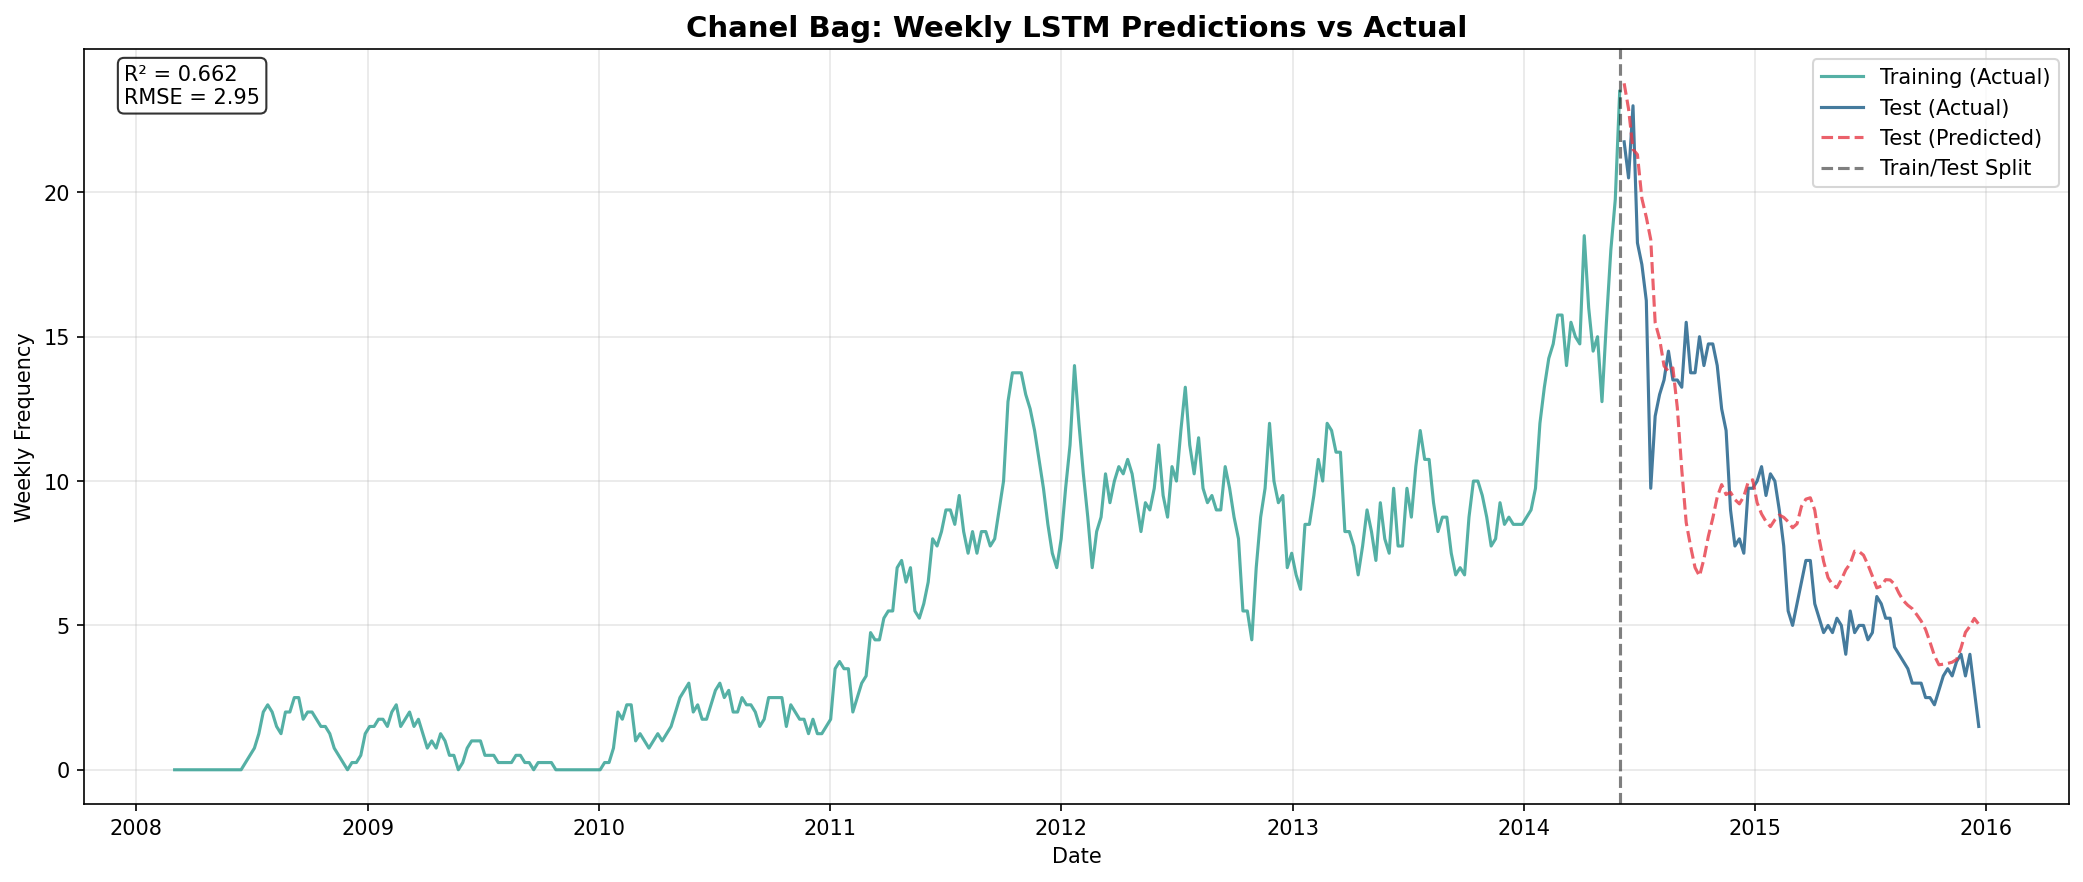
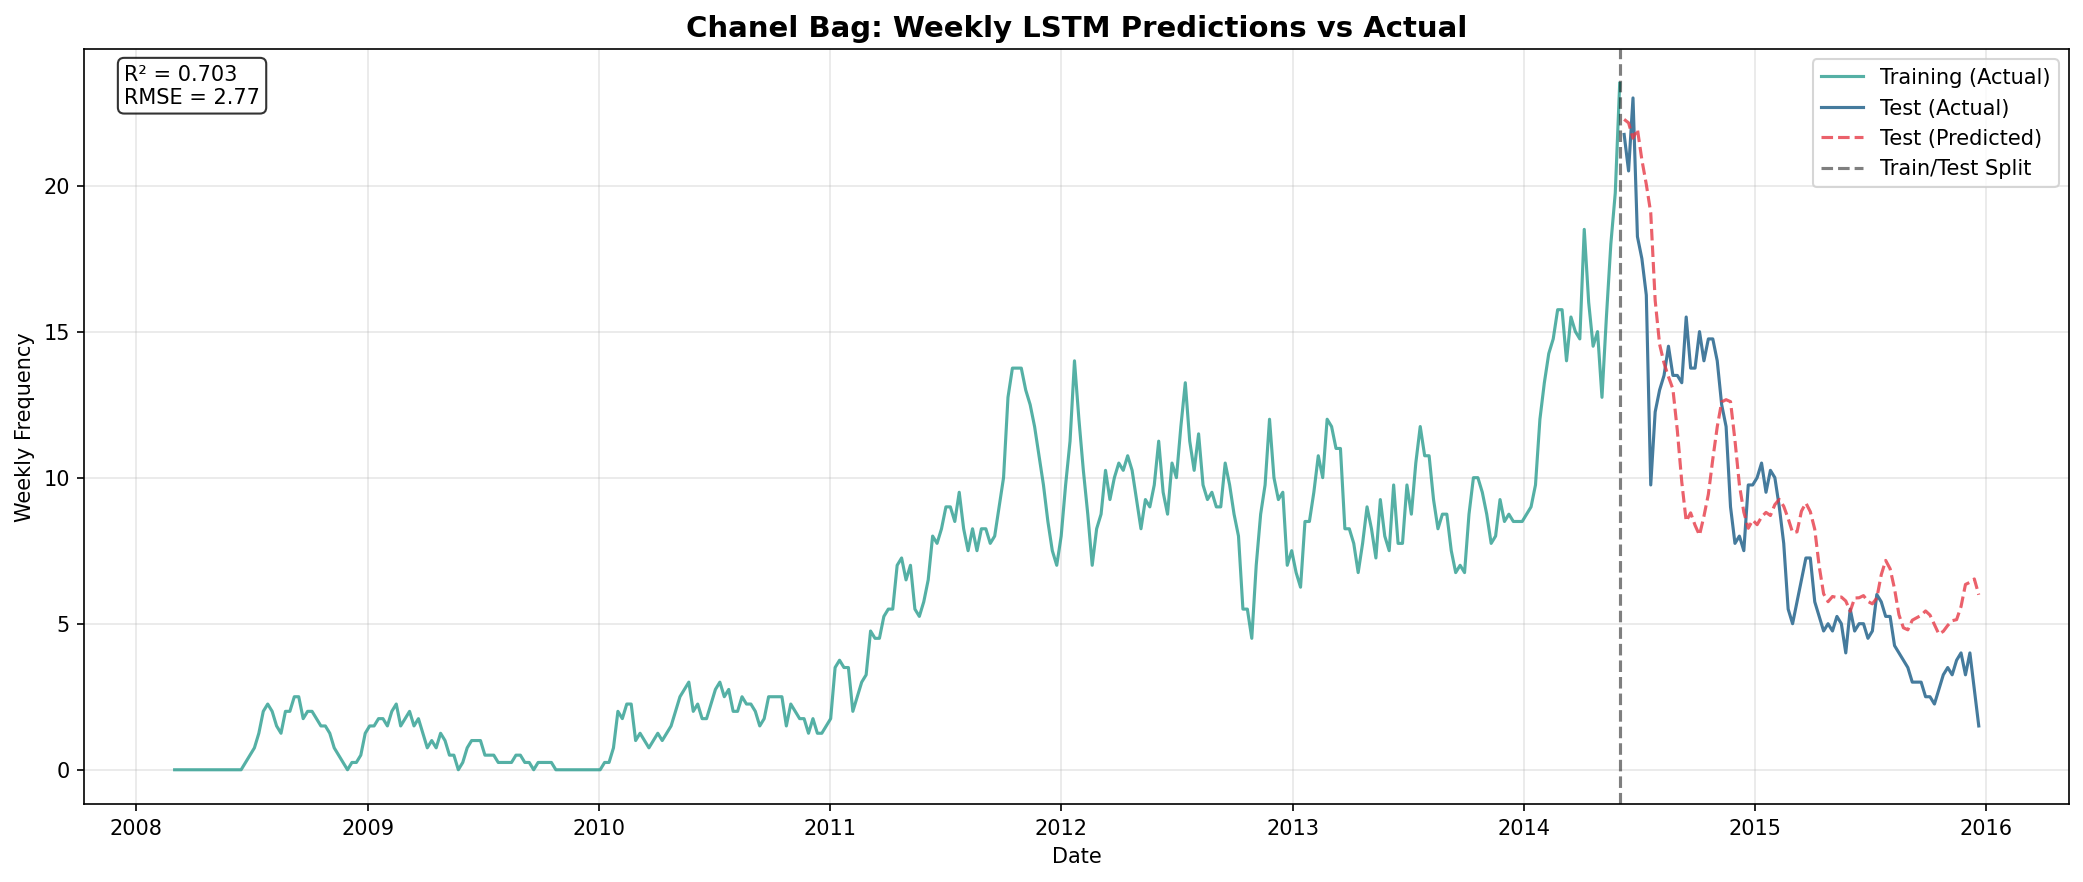
fix: LSTM trained on weekly data (with or without weather)

diff --git a/lstm_weeklyV2.py b/lstm_weeklyV2.py
@@ -221,7 +221,6 @@ class LSTMForecaster:
 
 
 def prepare_weekly_features(sfs_df: pd.DataFrame, 
-                           weather_df: pd.DataFrame,
                            target_col: str) -> pd.DataFrame:
     """
     Prepare features for weekly LSTM/TFT models.
@@ -229,15 +228,12 @@ def prepare_weekly_features(sfs_df: pd.DataFrame,
     Features created:
     - Lag features (1, 2, 4, 8, 12, 26, 52 weeks)
     - Rolling statistics (4, 12, 26 week windows)
-    - Weather features
     - Calendar features
     
     Parameters:
     -----------
     sfs_df : DataFrame
         Weekly SFS data with trend frequencies
-    weather_df : DataFrame
-        Weekly weather data
     target_col : str
         Target column name ('zara_frequency' or 'chanel_frequency')
     
@@ -248,38 +244,27 @@ def prepare_weekly_features(sfs_df: pd.DataFrame,
     df = pd.DataFrame(index=sfs_df.index)
     df[target_col] = sfs_df[target_col]
     
-    # === LAG FEATURES ===
     lag_weeks = [1, 2, 4, 8, 12, 26, 52]
     for lag in lag_weeks:
         df[f'lag_{lag}w'] = df[target_col].shift(lag)
     
-    # === ROLLING STATISTICS ===
+
     windows = [4, 12, 26]
     for window in windows:
         df[f'rolling_mean_{window}w'] = df[target_col].shift(1).rolling(window, min_periods=1).mean()
         df[f'rolling_std_{window}w'] = df[target_col].shift(1).rolling(window, min_periods=1).std()
         df[f'rolling_min_{window}w'] = df[target_col].shift(1).rolling(window, min_periods=1).min()
         df[f'rolling_max_{window}w'] = df[target_col].shift(1).rolling(window, min_periods=1).max()
-    
-    # === MOMENTUM FEATURES ===
+
     df['momentum_1w'] = df[target_col].diff(1)
     df['momentum_4w'] = df[target_col].diff(4)
     df['momentum_12w'] = df[target_col].diff(12)
-    
+ 
     for period in [1, 4, 12]:
         pct_change = df[target_col].pct_change(period)
         pct_change = pct_change.replace([np.inf, -np.inf], np.nan)
         df[f'pct_change_{period}w'] = pct_change
-    
-    # === WEATHER FEATURES ===
-    if weather_df is not None:
-        weather_aligned = weather_df.reindex(df.index)
-        
-        for col in weather_df.columns:
-            df[col] = weather_aligned[col]
-            df[f'{col}_lag_1w'] = weather_aligned[col].shift(1)
-            df[f'{col}_lag_4w'] = weather_aligned[col].shift(4)
-    
+ 
     df['week_of_year'] = df.index.isocalendar().week.astype(int)
     df['month'] = df.index.month
     df['quarter'] = df.index.quarter
@@ -287,7 +272,7 @@ def prepare_weekly_features(sfs_df: pd.DataFrame,
     
     df['week_sin'] = np.sin(2 * np.pi * df['week_of_year'] / 52)
     df['week_cos'] = np.cos(2 * np.pi * df['week_of_year'] / 52)
-    
+
     df = df.ffill().bfill()
     
     df = df.replace([np.inf, -np.inf], np.nan)
@@ -315,15 +300,16 @@ def create_weekly_train_test_split(features_df: pd.DataFrame,
     --------
     Dictionary with train/test data
     """
+
     peak_idx = features_df[target_col].idxmax()
     peak_loc = features_df.index.get_loc(peak_idx)
     
     print(f"Peak found at: {peak_idx.strftime('%Y-%m-%d')}")
     print(f"Peak value: {features_df[target_col].max():.2f}")
-    
+  
     train_df = features_df.iloc[:peak_loc + 1]
     test_df = features_df.iloc[peak_loc + 1:]
-
+   
     feature_cols = [c for c in features_df.columns if c != target_col]
     
     X_train = train_df[feature_cols]
@@ -376,7 +362,7 @@ def train_and_evaluate_lstm_weekly(split_data: Dict,
     print(f"Features: {len(X_train.columns)}")
     print(f"Sequence length: {sequence_length} weeks")
     print(f"Device: {device}")
-    
+ 
     model = LSTMForecaster(
         sequence_length=sequence_length,
         hidden_size=hidden_size,
@@ -384,12 +370,12 @@ def train_and_evaluate_lstm_weekly(split_data: Dict,
         dropout=dropout,
         learning_rate=0.001,
         epochs=epochs,
-        batch_size=32  
+        batch_size=32  # Larger batch size since we have more data
     )
     
     print("\nTraining LSTM...")
     model.train(X_train, y_train, X_test, y_test, verbose=True)
-
+    
     bridge_length = sequence_length
     X_bridge = pd.concat([X_train.iloc[-bridge_length:], X_test])
     y_bridge = pd.concat([y_train.iloc[-bridge_length:], y_test])
@@ -399,7 +385,7 @@ def train_and_evaluate_lstm_weekly(split_data: Dict,
     
     if len(predictions) > len(y_actual):
         predictions = predictions[-len(y_actual):]
-  
+    
     rmse = np.sqrt(mean_squared_error(y_actual, predictions))
     mae = mean_absolute_error(y_actual, predictions)
     r2 = r2_score(y_actual, predictions)
@@ -454,6 +440,7 @@ def plot_lstm_predictions_weekly(results: Dict,
     ax.legend(loc='best')
     ax.grid(True, alpha=0.3)
     
+    # Add metrics annotation
     metrics = results['test_metrics']
     metrics_text = f"R² = {metrics['r2']:.3f}\nRMSE = {metrics['rmse']:.2f}"
     ax.annotate(metrics_text, xy=(0.02, 0.98), xycoords='axes fraction',
@@ -479,23 +466,23 @@ if __name__ == "__main__":
     os.makedirs('plots', exist_ok=True)
     
     print(f"Using device: {device}")
-    
+
     print("\n" + "="*60)
     print("LOADING WEEKLY DATA")
     print("="*60)
     
     data = load_all_weekly_data(
         sfs_metadata_path='data/SFS_metadata.csv',
-        #weather_path='data/California_weather.csv'
+        weather_path='data/California_weather.csv'
     )
     
     # === ZARA DRESS ===
     print("\n" + "="*60)
     print("ZARA DRESS - WEEKLY LSTM")
     print("="*60)
-    
+   
     zara_features = prepare_weekly_features(
-        data['sfs'], data['weather'], 'zara_frequency'
+        data['sfs'], 'zara_frequency'
     )
     print(f"\nZara features shape: {zara_features.shape}")
     print(f"Feature columns: {len(zara_features.columns) - 1}")  # -1 for target
@@ -506,39 +493,39 @@ if __name__ == "__main__":
     
     zara_results = train_and_evaluate_lstm_weekly(
         zara_split,
-        model_name="Zara LSTM (Weekly SFS + Weather)",
+        model_name="Zara LSTM (Weekly SFS only)",
         sequence_length=12,  # 12 weeks = ~3 months
         hidden_size=64,
         num_layers=2,
         dropout=0.2,
         epochs=150
     )
-    
+   
     plot_lstm_predictions_weekly(
         zara_results,
         zara_split['y_train'],
         zara_split['train_dates'],
         title='Zara Dress: Weekly LSTM Predictions vs Actual',
-        save_path='plots/zara_lstm_weekly_predictions_V1.png'
+        save_path='plots/zara_lstm_weekly_predictions.png'
     )
     
     # === CHANEL BAG ===
     print("\n" + "="*60)
     print("CHANEL BAG - WEEKLY LSTM")
     print("="*60)
- 
+
     chanel_features = prepare_weekly_features(
-        data['sfs'], data['weather'], 'chanel_frequency'
+        data['sfs'], 'chanel_frequency'
     )
     print(f"\nChanel features shape: {chanel_features.shape}")
-
+    
     chanel_split = create_weekly_train_test_split(
         chanel_features, 'chanel_frequency', split_at_peak=True
     )
-    
+
     chanel_results = train_and_evaluate_lstm_weekly(
         chanel_split,
-        model_name="Chanel LSTM (Weekly SFS + Weather)",
+        model_name="Chanel LSTM (Weekly SFS only)",
         sequence_length=12,
         hidden_size=64,
         num_layers=2,
@@ -551,7 +538,7 @@ if __name__ == "__main__":
         chanel_split['y_train'],
         chanel_split['train_dates'],
         title='Chanel Bag: Weekly LSTM Predictions vs Actual',
-        save_path='plots/chanel_lstm_weekly_predictions_V1.png'
+        save_path='plots/chanel_lstm_weekly_predictions.png'
     )
     
     # === SUMMARY ===
